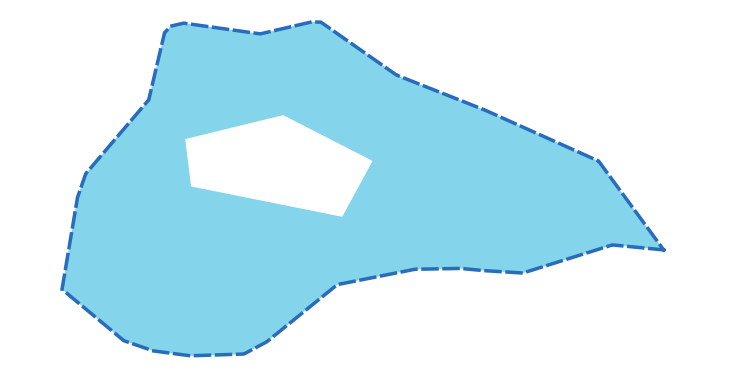
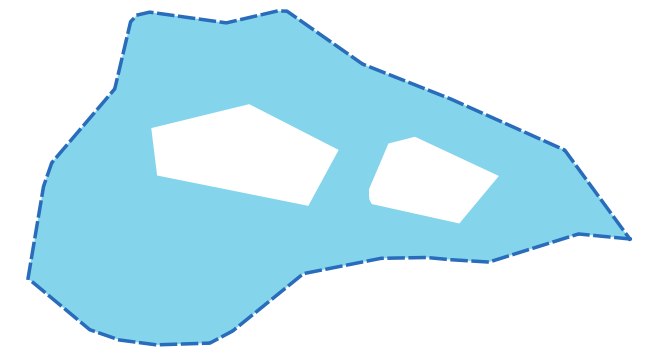
Expression functions: Update example for exterior_ring and add one for interior_ring_n
and cross-reference them

diff --git a/docs/user_manual/expressions/functions_list.rst b/docs/user_manual/expressions/functions_list.rst
@@ -479,6 +479,13 @@ Further reading: :ref:`qgisextendlines` algorithm
 
 .. include:: expression_help/GeometryGroup.rst
    :start-after: .. end_extend_section
+   :end-before: .. end_exterior_ring_section
+
+Further reading: :ref:`qgisboundary` algorithm,
+:ref:`expression_function_GeometryGroup_interior_ring_n`
+
+.. include:: expression_help/GeometryGroup.rst
+   :start-after: .. end_exterior_ring_section
    :end-before: .. end_flip_coordinates_section
 
 Further reading: :ref:`qgisswapxy` algorithm
@@ -507,6 +514,12 @@ Further reading: :ref:`qgisforcerhr` algorithm,
 
 .. include:: expression_help/GeometryGroup.rst
    :start-after: .. end_force_rhr_section
+   :end-before: .. end_interior_ring_n_section
+
+Further reading: :ref:`expression_function_GeometryGroup_exterior_ring`
+
+.. include:: expression_help/GeometryGroup.rst
+   :start-after: .. end_interior_ring_n_section
    :end-before: .. end_intersection_section
 
 Further reading: :ref:`qgisintersection` algorithm

diff --git a/docs/user_manual/expressions/expression_help/GeometryGroup.rst b/docs/user_manual/expressions/expression_help/GeometryGroup.rst
@@ -1183,6 +1183,11 @@ Returns a specific interior ring from a polygon geometry, or NULL if the geometr
      - * ``geom_to_wkt(interior_ring_n(geom_from_wkt('POLYGON((-1 -1, 4 0, 4 2, 0 2, -1 -1),(-0.1 -0.1, 0.4 0, 0.4 0.2, 0 0.2, -0.1 -0.1),(-1 -1, 4 0, 4 2, 0 2, -1 -1))'),1))`` → 'LineString (-0.1 -0.1, 0.4 0, 0.4 0.2, 0 0.2, -0.1 -0.1))'
 
 
+.. figure:: /docs/user_manual/expressions/expression_help/img/interior_ring_n.*
+   :align: center
+
+   The dashed line represents a specific interior ring of the polygon
+
 .. end_interior_ring_n_section
 
 .. _expression_function_GeometryGroup_intersection:
